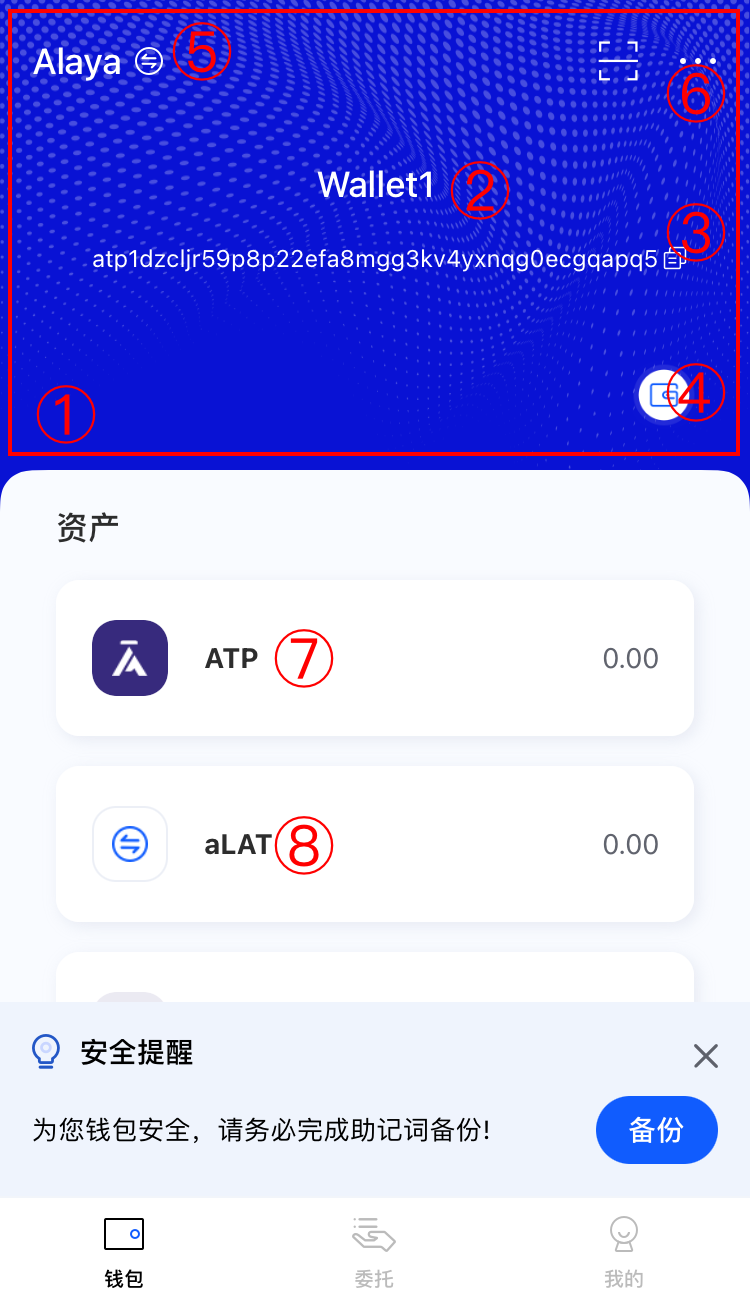
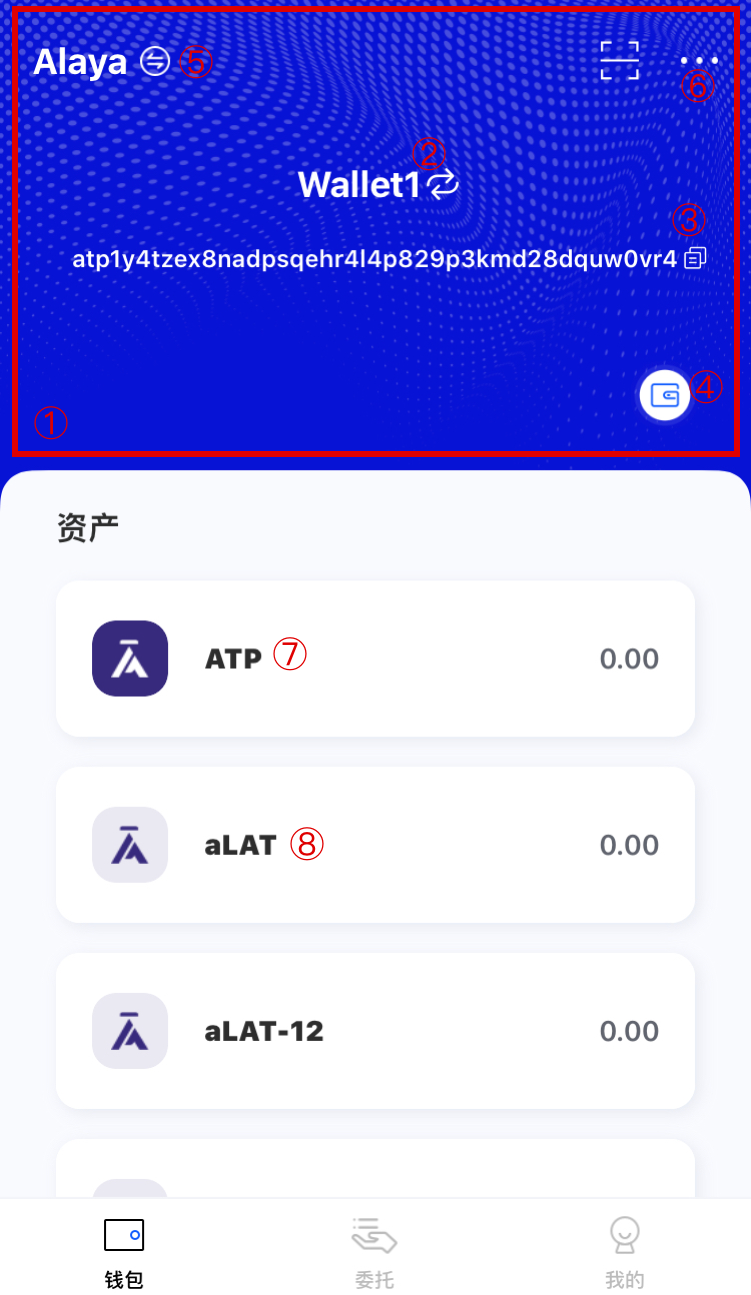
Documents for Chinese Update

diff --git a/website/translated_docs/zh-CN/ATON-user-manual.md b/website/translated_docs/zh-CN/ATON-user-manual.md
@@ -22,7 +22,7 @@ title: ATON钱包用户使用手册
 ## 钱包资产
 
 <div>
-<div style="float:left;"><img src="/alaya-devdocs/img/zh-CN/ATON-manual-cn.assets/aton100.png" width="300" style="zoom:80%;"  /></div> <div><br>1. 在存在钱包的情况下，钱包资产主页会显示一个有效的钱包及其资产信息。<br>2. ①顶部部分是当前钱包简要信息。<br>3. ②钱包简要信息包含钱包名和钱包地址。<br>4. ③点击【复制】按钮可以复制当前钱包的地址。<br>5. ④点击【钱包管理】按钮可以对钱包进行管理。<br>6. ⑤顶部左上角显示当前钱包所在节点信息，点击可以切换节点。<br>7. ⑥点击【...】可创建、导入和选择钱包，点击扫一扫可扫描二维码。<br>8. 页面下半部分是【资产列表】。<br>9. ⑦第一条是ATP数据，可以看到单位和余额，点击可以进入ATP资产详情页面。<br>12. ⑧ARC20智能合约数据，可以看到单位和余额，点击可以进入ARC20智能合约资产详情页面。
+<div style="float:left;"><img src="/alaya-devdocs/img/zh-CN/ATON-manual-cn.assets/aton100.png" width="300" style="zoom:80%;"  /></div> <div><br>1. 在存在钱包的情况下，钱包资产主页会显示一个有效的钱包及其资产信息。<br>2. ①顶部部分是当前钱包简要信息。<br>3. ②钱包简要信息包含钱包名和钱包地址，以及【切换钱包】按钮。<br>4. ③点击【复制】按钮可以复制当前钱包的地址。<br>5. ④点击【钱包管理】按钮可以对钱包进行管理。<br>6. ⑤顶部左上角显示当前钱包所在节点信息，点击可以切换节点。<br>7. ⑥点击【...】可创建和导入钱包，点击扫一扫可扫描二维码。<br>8. 页面下半部分是【资产列表】。<br>9. ⑦第一条是ATP数据，可以看到单位和余额，点击可以进入ATP资产详情页面。<br>12. ⑧ARC20智能合约数据，可以看到单位和余额，点击可以进入ARC20智能合约资产详情页面。
 
 
 </div>
@@ -112,7 +112,7 @@ title: ATON钱包用户使用手册
 ## 选择钱包
 
 <div>
-<div style="float:left;"><img src="/alaya-devdocs/img/zh-CN/ATON-manual-cn.assets/aton99.png" width="300" style="zoom:80%;"  /></div> <div><br>1. 点击钱包首页右上角【...】，再点击【选择钱包】。<br>2. 可按“全部”、“HD”、“普通”进行分类筛选，也可通过钱包名称模糊搜索或钱包地址进行精确搜索。<br>3. 找到需选择的钱包，点击钱包框。<br>4. 钱包首页自动切换到刚选择的钱包。
+<div style="float:left;"><img src="/alaya-devdocs/img/zh-CN/ATON-manual-cn.assets/aton99.png" width="300" style="zoom:80%;"  /></div> <div><br>1. 点击钱包首页的钱包名称右侧的“切换钱包”图标，即可选择钱包。<br>2. 可按“全部”、“HD”、“普通”进行分类筛选，也可通过钱包名称模糊搜索或钱包地址进行精确搜索。<br>3. 找到需选择的钱包，点击钱包框。<br>4. 钱包首页自动切换到刚选择的钱包。
 </div>
 <div style="clear:both"></div>
 <div style="margin-top:40px;"></div>
@@ -150,7 +150,7 @@ title: ATON钱包用户使用手册
 ### 查看验证节点列表
 
 <div>
-<div style="float:left;"><img src="/alaya-devdocs/img/zh-CN/ATON-manual-cn.assets/atonrank.jpg" width="300"style="zoom:80%;" /></div> <div><br>1. 点击【委托-验证节点】，可查看Alaya网络中的验证节点。<br>2. 节点默认是按照排名进行排序，可支持接受委托量、委托者数、预计委托年化收益率排名。<br>3. 活跃中节点：指当前结算周期参与共识选举并有机会生产区块获得出块奖励的验证节点。<br>4. 候选中节点：指当前结算周期不参与共识选举的验证节点。
+<div style="float:left;"><img src="/alaya-devdocs/img/zh-CN/ATON-manual-cn.assets/atonrank.png" width="300"style="zoom:80%;" /></div> <div><br>1. 点击【委托-验证节点】，可查看Alaya网络中的验证节点。<br>2. 节点默认是按照排名进行排序，可支持接受委托量、委托者数、预计委托年化收益率排名。<br>3. 活跃中节点：指当前结算周期参与共识选举并有机会生产区块获得出块奖励的验证节点。<br>4. 候选中节点：指当前结算周期不参与共识选举的验证节点。
 </div>
 <div style="clear:both"></div>
 <div style="margin-top:40px;"></div>
